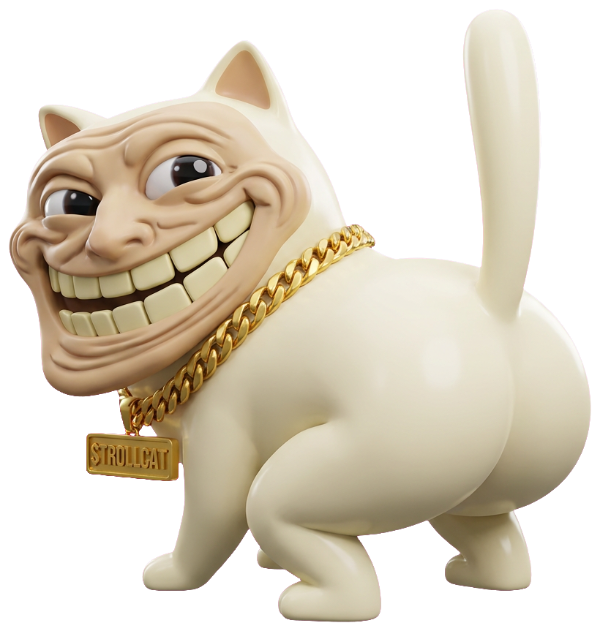
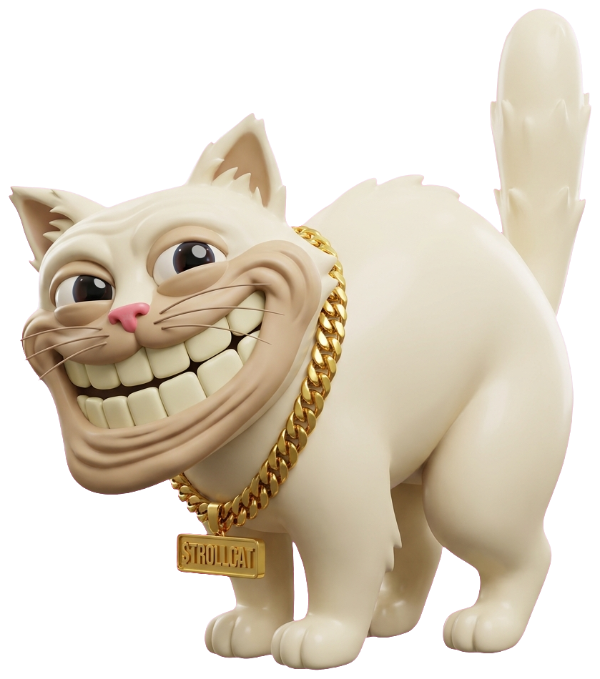
Litterbox: cat nose (not a human nose) + all-time shit counter
- Regenerate both litterbox sprites (walk + squat) with a proper pink triangular
  CAT nose and whiskers instead of the trollface's human nose, keeping the grin,
  eyes and gold $TROLLCAT chain. Re-keyed to transparent; assets/img/tcat_walk.png
  and tcat_squat.png updated.
- Add a persistent "N shat all-time" counter in the header (localStorage, so it
  climbs across visits) that pops on every deposit — social-proof + the requested
  click counter.

Claude-Session: https://claude.ai/code/session_013sZwLrjhr7Hj3PTGSLeZfU

diff --git a/litterbox.html b/litterbox.html
@@ -113,6 +113,11 @@ header{display:flex;flex-wrap:wrap;align-items:flex-end;gap:1rem 1.4rem;justify-
 /* the $TROLLCAT sign (white-bg jpg keyed to transparent at runtime) */
 .sign{position:absolute;left:3%;bottom:44%;width:120px;height:auto;z-index:2;filter:drop-shadow(0 8px 10px rgba(0,0,0,.55));transform:rotate(-3deg)}
 
+.shitcount{display:inline-flex;align-items:center;gap:.4rem;font-family:ui-monospace,monospace;font-weight:700;font-size:.82rem;color:#f4c430;background:rgba(244,196,48,.1);border:1px solid rgba(244,196,48,.42);border-radius:20px;padding:.34rem .72rem;margin-left:.6rem;white-space:nowrap;vertical-align:middle}
+.shitcount b{color:#fff;font-size:.98rem}
+.shitcount .lbl{color:#9a8a5a;font-weight:600}
+.shitcount.pop{animation:shitpop .42s ease}
+@keyframes shitpop{0%{transform:scale(1)}40%{transform:scale(1.2);color:#b6ff2e}100%{transform:scale(1)}}
 /* THE actual Venice trollcat -- wanders the box, squats to poop */
 .tcat{position:absolute;bottom:11%;left:18%;width:clamp(88px,12vw,122px);z-index:160;cursor:pointer;
   transition:left .3s ease, bottom .3s ease;filter:drop-shadow(0 12px 12px rgba(0,0,0,.55))}
@@ -204,6 +209,7 @@ header{display:flex;flex-wrap:wrap;align-items:flex-end;gap:1rem 1.4rem;justify-
       <h1>THE&nbsp;LITTER<span class="b">BOX</span></h1>
       <p class="sub"><b>Robinhood Chain's</b> top tokens by 24h volume &mdash; real projects, real PFPs, buried in the litter. click one and <b class="g">TROLLCAT decides who gets shat on.</b></p>
       <span class="live"><span class="dot"></span><span id="scooptime">last scooped 0s ago</span></span>
+      <span class="shitcount" id="shitcount" title="all-time deposits by the cat"><svg viewBox="0 0 100 104" width="15" height="15" style="vertical-align:-3px"><use href="#poopSym"/></svg><b id="shitnum">0</b><span class="lbl">shat all-time</span></span>
     </div>
     <div class="controls">
       <div class="seg" id="sort">
@@ -371,7 +377,7 @@ header{display:flex;flex-wrap:wrap;align-items:flex-end;gap:1rem 1.4rem;justify-
         d.classList.add('hit');
         for(var f=0;f<3;f++){ var fl=document.createElement('div'); fl.className='fly';
           fl.style.left=(30+f*20)+'%'; fl.style.top=(20+f*8)+'%'; fl.style.animationDelay=(f*0.3)+'s'; $('.cbob',d).appendChild(fl); }
-        deposits++; $('#scoopcount').textContent=deposits+' deposit'+(deposits===1?'':'s')+' today';
+        deposits++; $('#scoopcount').textContent=deposits+' deposit'+(deposits===1?'':'s')+' today'; bumpShits();
         pulseRow(t); say('shat on $'+t+'. lmao.');
         setTimeout(function(){ tcat.classList.remove('pooping'); d.classList.remove('hit');
           hopTo(Math.max(14,Math.min(84,xPct+(Math.random()<0.5?-20:20))), 11, function(){ busy=false; }); }, 950);
@@ -401,6 +407,12 @@ header{display:flex;flex-wrap:wrap;align-items:flex-end;gap:1rem 1.4rem;justify-
   var t0=0; setInterval(function(){ t0++; $('#scooptime').textContent='last scooped '+t0+'s ago'; }, 1000);
   setInterval(function(){ coins.forEach(function(c){ c.v=Math.max(1000, c.v*(1+(Math.random()-0.5)*0.03)); c.c=Math.max(-95,Math.min(400, c.c+(Math.random()-0.5)*3)); }); if(!tip.classList.contains('on')&&!busy) render(); }, 3400);
   setInterval(function(){ if(!busy&&Math.random()>0.5) say(idleLines[Math.floor(Math.random()*idleLines.length)]); }, 6000);
+
+  // all-time shit counter (persisted across visits)
+  var SHITS=parseInt(localStorage.getItem('troll_shits')||'0',10)||0;
+  var shitNumEl=$('#shitnum'); if(shitNumEl) shitNumEl.textContent=SHITS.toLocaleString();
+  function bumpShits(){ SHITS++; try{localStorage.setItem('troll_shits',String(SHITS));}catch(e){}
+    if(shitNumEl){ shitNumEl.textContent=SHITS.toLocaleString(); var sc=$('#shitcount'); if(sc){ sc.classList.remove('pop'); void sc.offsetWidth; sc.classList.add('pop'); } } }
 
   render();
 
